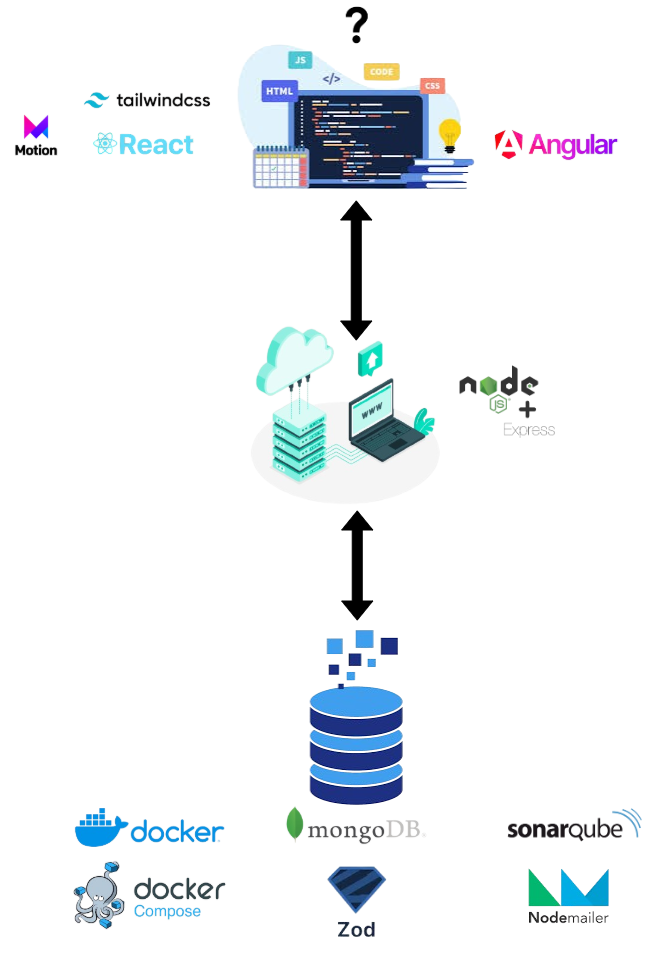
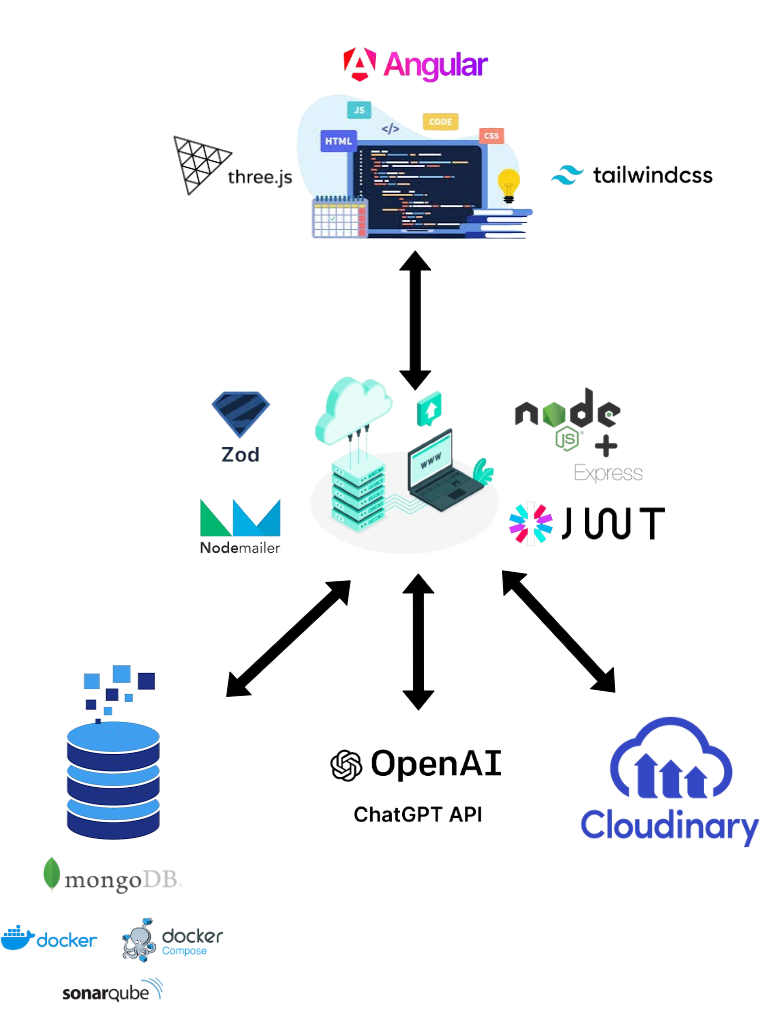
prueba 404

diff --git a/backend/Readme.md b/backend/Readme.md
@@ -1,97 +1,132 @@
-# Proyecto TFG - Backend
+# 24Seconds - Plataforma de Basket y Comunidad
 
-Este proyecto es la parte backend de una aplicación de comercio electrónico sobre una tienda de zapatillas de baloncesto. A continuación se describe la estructura del proyecto y la funcionalidad de cada archivo.
+24Seconds es una plataforma web integral que combina e-commerce, comunidad y eventos para los amantes del baloncesto y las zapatillas. El proyecto está compuesto por un frontend moderno desarrollado en Angular y un backend robusto basado en Node.js, Express y MongoDB. Incluye funcionalidades avanzadas como recomendaciones con IA, sorteos, eventos, panel de administración, pagos online y mucho más.
+
+---
+
+## Índice
+- [Descripción General](#descripción-general)
+- [Arquitectura y Tecnologías](#arquitectura-y-tecnologías)
+- [Principales Funcionalidades](#principales-funcionalidades)
+- [Estructura del Proyecto](#estructura-del-proyecto)
+- [Despliegue y Calidad](#despliegue-y-calidad)
+- [Cómo Ejecutar el Proyecto](#cómo-ejecutar-el-proyecto)
+- [Documentación de la API](#documentación-de-la-api)
+
+---
+
+## Descripción General
+
+24Seconds nace con el objetivo de ofrecer una experiencia única a los fans del basket, permitiendo no solo comprar zapatillas y productos exclusivos, sino también participar en sorteos, eventos, y formar parte de una comunidad activa. El sistema está preparado para escalar y adaptarse a diferentes roles de usuario: clientes, proveedores y administradores.
+
+El backend expone una API RESTful segura y bien documentada, mientras que el frontend proporciona una interfaz atractiva, responsiva y dinámica, optimizada para cualquier dispositivo.
+
+---
+
+## Arquitectura y Tecnologías
+
+### Backend
+- **Node.js & Express**: Motor principal de la API REST.
+- **MongoDB & Mongoose**: Base de datos NoSQL y modelado de datos.
+- **Zod**: Validación de datos robusta en endpoints.
+- **JWT**: Autenticación y autorización segura.
+- **Nodemailer**: Envío de emails (notificaciones, recuperación de contraseña, etc).
+- **Swagger**: Documentación interactiva de la API.
+- **Cloudinary**: Almacenamiento y gestión de imágenes en la nube.
+- **OpenAI API**: Recomendaciones inteligentes de zapatillas mediante IA.
+- **Docker & Docker Compose**: Contenerización y despliegue sencillo.
+- **SonarQube**: Análisis de calidad y seguridad del código.
+
+### Frontend
+- **Angular**: Framework SPA para el desarrollo del frontend.
+- **TypeScript**: Lenguaje principal para robustez y escalabilidad.
+- **Tailwind CSS**: Utilidades CSS para un diseño moderno y responsivo.
+- **Angular Material**: Componentes UI profesionales.
+- **RxJS**: Programación reactiva y gestión de estados.
+- **Chart.js**: Visualización de datos y estadísticas.
+- **Three.js**: Efectos y animaciones 3D.
+- **AOS, Animate.css, Particles.js**: Animaciones y efectos visuales.
+
+![Stack Tecnológico Backend](src/public/Backend.png)
+---
+
+## Principales Funcionalidades
+
+- **Registro y autenticación de usuarios** (clientes, proveedores, admins)
+- **Gestión de productos**: alta, edición, borrado, votación y ranking
+- **Carrito de la compra y pagos online**
+- **Panel de usuario y panel de administración**
+- **Participación en sorteos y eventos**
+- **Recomendación de zapatillas mediante IA**
+- **Subida y gestión de imágenes en la nube**
+- **Notificaciones y emails automáticos**
+- **Documentación Swagger para la API**
+- **Despliegue con Docker y control de calidad con SonarQube**
+
+---
 
 ## Estructura del Proyecto
 
-![Estructura del Proyecto](src/public/Backend.png)
+### Backend
+- **src/config/**: Configuración general y Swagger
+- **src/models/**: Modelos de datos (usuarios, productos, pedidos, etc.)
+- **src/controllers/**: Lógica de negocio
+- **src/routes/**: Endpoints de la API
+- **src/schemas/**: Validaciones y esquemas Swagger
+- **src/middlewares/**: Seguridad, validación y logs
+- **src/utils/**: Utilidades y helpers
+- **src/public/**: Archivos estáticos
+- **src/app.js / src/index.js**: Inicialización de la app
 
-### ⚙ Configuración y Carga Inicial
+### Frontend
+- **src/app/**: Componentes, servicios y rutas principales
+- **src/assets/**: Imágenes y recursos estáticos
+- **src/environments/**: Configuración de entornos
+- **angular.json / tailwind.config.js**: Configuración global
 
-- **src/config.js**: Configuración de variables de entorno.
-- **src/loaders/index.js**: Inicializa las cargas de Express y la base de datos.
-- **src/loaders/express.js**: Configura Express, incluyendo middlewares y rutas.
-- **src/loaders/db.js**: Conexión a la base de datos MongoDB.
+---
 
-### 🗂 Modelos
+## Despliegue y Calidad
+- **Docker**: Permite levantar el backend, frontend y base de datos con un solo comando.
+- **SonarQube**: Analiza el código para asegurar calidad y seguridad.
+- **Render/Vercel**: Despliegue automático en la nube.
 
-- **src/models/userModel.js**: Esquema y modelo de usuario.
-- **src/models/proveedorModel.js**: Esquema y modelo de proveedor.
-- **src/models/productModel.js**: Esquema y modelo de producto.
-- **src/models/orderModel.js**: Esquema y modelo de orden.
-- **src/models/cartModel.js**: Esquema y modelo de carrito de compras.
-- **src/models/reviewModel.js**: Esquema y modelo de reseña.
-- **src/models/shippingAddressModel.js**: Esquema y modelo de dirección de envío.
-- **src/models/purchaseHistoryModel.js**: Esquema y modelo de historial de compras.
-- **src/models/eventModel.js**: Esquema y modelo de evento.
-- **src/models/inventoryModel.js**: Esquema y modelo de inventario.
-- **src/models/favoriteShoesModel.js**: Esquema y modelo de zapatos favoritos.
-- **src/models/categoryModel.js**: Esquema y modelo de categoría.
+---
 
-### 🛠 Controladores
+## Cómo Ejecutar el Proyecto
 
-- **src/controllers/authController.js**: Controlador para autenticación y gestión de usuarios.
-- **src/controllers/productController.js**: Controlador para gestión de productos.
-- **src/controllers/cartController.js**: Controlador para gestión de carritos de compras.
-- **src/controllers/eventController.js**: Controlador para gestión de eventos.
+1. Clona el repositorio y entra en la carpeta del backend:
+   ```powershell
+   git clone <repo-url>
+   cd backend
+   npm install
+   ```
+2. Configura las variables de entorno en un archivo `.env` (puedes usar `.env.example` como referencia).
+3. Arranca el backend:
+   ```powershell
+   npm start
+   ```
+4. Para el frontend:
+   ```powershell
+   cd ../24Seconds
+   npm install
+   npm start
+   ```
+5. Accede a la web en [http://localhost:4200](http://localhost:4200) y a la documentación de la API en [http://localhost:4000/api-docs](http://localhost:4000/api-docs) (o el puerto que uses).
 
-### 🌐 Rutas
+---
 
-- **src/routes/authRoutes.js**: Rutas de autenticación.
-- **src/routes/productRoutes.js**: Rutas de productos.
-- **src/routes/cartRoutes.js**: Rutas de carritos de compras.
-- **src/routes/eventRoutes.js**: Rutas de eventos.
-- **src/routes/indexRoutes.js**: Archivo principal de rutas que importa y usa todas las rutas anteriores.
+## Documentación de la API
 
-### ✅ Esquemas de Validación
+La API está documentada con Swagger. Puedes probar todos los endpoints y ver los esquemas de datos accediendo a:
+- [http://localhost:4000/api-docs](http://localhost:4000/api-docs)
 
-- **src/schemas/registerSchema.js**: Esquema de validación para registro de usuarios.
-- **src/schemas/loginSchema.js**: Esquema de validación para inicio de sesión.
-- **src/schemas/createProductSchema.js**: Esquema de validación para creación de productos.
-- **src/schemas/updateProductSchema.js**: Esquema de validación para actualización de productos.
-- **src/schemas/voteProductSchema.js**: Esquema de validación para votación de productos.
-- **src/schemas/addToCartSchema.js**: Esquema de validación para añadir productos al carrito.
-- **src/schemas/swaggerSchemas.js**: Esquemas para la documentación Swagger.
+---
 
-### 🔒 Middlewares
+## Créditos y agradecimientos
 
-- **src/middlewares/validateSchema.js**: Middleware para validar esquemas.
-- **src/middlewares/isProveedor.js**: Middleware para verificar si el usuario es proveedor.
-- **src/middlewares/isAdmin.js**: Middleware para verificar si el usuario es administrador.
-- **src/middlewares/loggerMiddleware.js**: Middleware para registrar logs.
-- **src/middlewares/errorHandlingMiddleware.js**: Middleware para manejar errores.
+Este proyecto ha sido desarrollado como Trabajo de Fin de Grado, integrando tecnologías modernas y buenas prácticas de desarrollo web. Gracias a la comunidad open source y a todos los recursos que han hecho posible este proyecto.
 
-### 🔧 Utilidades
-
-- **src/utils/logger.js**: Configuración del logger.
-
-### 📄 Documentación
-
-- **src/config/swagger.js**: Configuración de Swagger para la documentación de la API.
-
-### 🚀 Inicialización
-
-- **src/index.js**: Punto de entrada de la aplicación.
-- **src/app.js**: Configuración de la aplicación Express.
-
-## Funcionamiento
-
-El proyecto está estructurado para manejar un sistema de comercio electrónico con autenticación de usuarios, gestión de productos, carritos de compras, eventos y más. Utiliza MongoDB como base de datos y Express como framework de servidor.
-
-Para más detalles sobre la estructura y funcionamiento, puedes consultar la [documentación Swagger](http://localhost:4000/api-docs).
-
-## 🛠 Tecnologías Utilizadas
-
-- **Node.js**: Entorno de ejecución para JavaScript en el servidor.
-- **Express**: Framework web para Node.js, utilizado para construir la API REST.
-- **MongoDB**: Base de datos NoSQL utilizada para almacenar datos.
-- **Mongoose**: Biblioteca de modelado de datos para MongoDB y Node.js.
-- **Zod**: Biblioteca de validación de esquemas para validar datos de entrada.
-- **JWT (JSON Web Tokens)**: Utilizado para la autenticación y autorización de usuarios.
-- **Swagger**: Herramienta para documentar la API REST.
-- **bcrypt**: Biblioteca para el hashing de contraseñas.
-- **dotenv**: Carga variables de entorno desde un archivo `.env`.
-- **crypto**: Módulo de Node.js para operaciones criptográficas.
-- **nodemailer**: Biblioteca para enviar correos electrónicos desde Node.js.
+---
 
 
